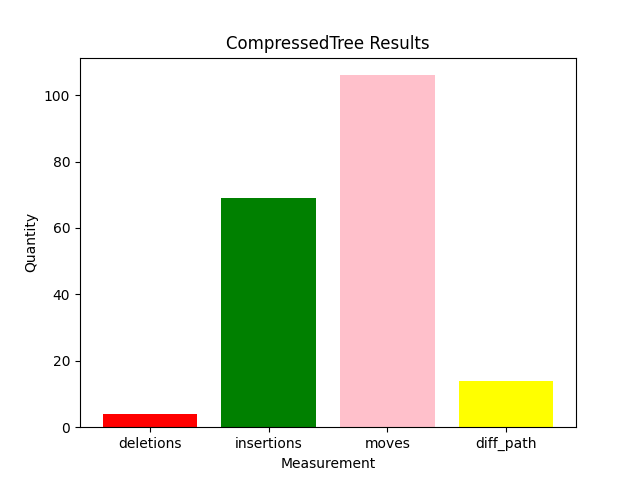
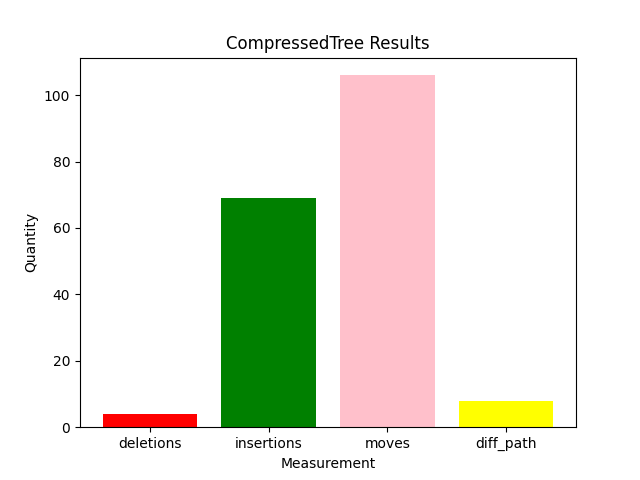
Added Spork and JDime analysis
Script now calculates numerical data for Spork and JDime algorithms.

Changed region(s): [[0.7188, 0.7812, 0.875, 0.8438]]

diff --git a/demos/run_algo.py b/demos/run_algo.py
@@ -21,6 +21,11 @@ def main():
     exec_algo(algo,output_path,lang)
     run_gumtree(output_path,lang,algo)
 
+    if (lang=="java"):
+        run_gumtree_spork(output_path)
+        run_gumtree_jdime(output_path)
+
+
 
 def get_suffix(lang):
     match lang:
@@ -61,6 +66,57 @@ def get_case_study(case_study,output_path):
         print("path not found")
         exit(0)
 
+def search_gumtree(result,new):
+    if (len(result)==1 and result[0]==''):
+        print("Error in gumtree. Two possible reasons:\n 1. PythonParser not configured (see readme) \n 2. Syntax error in desired files preventing gumtree from running (solve errors manually, then try again)")
+        exit(0)
+
+    dict={
+    'deletions':re.compile(r'\ndelete-(tree|node)'),
+    'moves':re.compile(r'\nmove-(tree|node)'),
+    'insertions':re.compile(r'\ninsert-(tree|node)'),
+    'diff_path':re.compile(r'\nupdate-(tree|node)')
+    }
+
+    data={'deletions':0,'insertions':0,'moves':0,'diff_path':0}
+
+
+    for val in result:
+        for key,rx in dict.items():
+            match=rx.search(val)
+            if (match):
+                if (key=='diff_path' and ("Name" or "name" in val)) or ('import' in val) or ("Import" in val) and ("operator: ," not in val):
+                    data[key]+=1
+
+    with open(new,'w') as writer:
+        for key in data.keys():
+            writer.write(key+": "+str(data[key])+"\n")
+
+
+def run_gumtree_spork(output_path):
+    desired=output_path+"/desired.java"
+    result=output_path+"/spork_result.java"
+    new=output_path+"/demo_result/spork_diff.txt"
+    result=subprocess.run(['java','-jar','gumtree.jar','textdiff',desired,result],capture_output=True,text=True).stdout.strip("/n").split("===")
+    
+    if (len(result)==1 and result[0]==''):
+        print("Error in gumtree. Two possible reasons:\n 1. PythonParser not configured (see readme) \n 2. Syntax error in desired files preventing gumtree from running (solve errors manually, then try again)")
+        exit(0)
+
+    search_gumtree(result,new)
+    
+def run_gumtree_jdime(output_path):
+    desired=output_path+"/desired.java"
+    result=output_path+"/jdime.java"
+    new=output_path+"/demo_result/jdime_diff.txt"
+    result=subprocess.run(['java','-jar','gumtree.jar','textdiff',desired,result],capture_output=True,text=True).stdout.strip("/n").split("===")
+    
+    if (len(result)==1 and result[0]==''):
+        print("Error in gumtree. Two possible reasons:\n 1. PythonParser not configured (see readme) \n 2. Syntax error in desired files preventing gumtree from running (solve errors manually, then try again)")
+        exit(0)
+
+    search_gumtree(result,new)
+
 
 def run_gumtree(output_path,lang,algo):
     desired=output_path+"/desired."+lang
@@ -75,32 +131,8 @@ def run_gumtree(output_path,lang,algo):
     # with open(new, 'w') as devnull:
     #     subprocess.run(['java','-jar','gumtree.jar','textdiff',desired,result],stdout=devnull)
 
+    search_gumtree(result,new)
 
-    if (len(result)==1 and result[0]==''):
-        print("PythonParser cannot be detected.")
-        exit(0)
-
-
-    dict={
-    'deletions':re.compile(r'\ndelete-(tree|node)'),
-    'moves':re.compile(r'\nmove-(tree|node)'),
-    'insertions':re.compile(r'\ninsert-(tree|node)'),
-    'diff_path':re.compile(r'\nupdate-(tree|node)\n---\n*(n|N)ame*')
-    }
-
-    data={'deletions':0,'insertions':0,'moves':0,'diff_path':0}
-
-
-    for val in result:
-        for key,rx in dict.items():
-            match=rx.search(val)
-            if (match):
-                if (key=='diff_path' or 'import' in val or "Import" in val) and ("operator: ," not in val):
-                    data[key]+=1
-
-    with open(new,'w') as writer:
-        for key in data.keys():
-            writer.write(key+": "+str(data[key])+"\n")
     
 
 

diff --git a/demos/run_analysis.py b/demos/run_analysis.py
@@ -14,11 +14,18 @@ def parsing():
 def main():
     algo=parsing().algo
     dir=parsing().dir
+
+    run_cs(algo,dir)
+    run_overall(algo)
+
+
+def run_cs(algo,dir):
+
     data={'deletions':0,'insertions':0,'moves':0,'diff_path':0}
 
     for root,dirs,files in os.walk(dir):
         for file in files:
-            if file=="CompressedTree_diff.txt":
+            if file==algo+"_diff.txt":
                 with open(os.path.join(root,file),'r') as reader:
                     lines=reader.readlines()
                     for line in lines:
@@ -39,7 +46,6 @@ def main():
     plt.ylabel('Quantity')
     plt.savefig(dir+'/images/'+algo+'.png')
 
-    run_overall(algo)
 
 def run_overall(algo):
 
@@ -47,7 +53,7 @@ def run_overall(algo):
     total={'deletions':0,'insertions':0,'moves':0,'diff_path':0}
     for root,dirs,files in os.walk('.'):
         for file in files:
-            if file=="CompressedTree_diff.txt":
+            if file==algo+"_diff.txt":
                 with open(os.path.join(root,file),'r') as reader:
                     lines=reader.readlines()
                     for line in lines:

diff --git a/demos/java_case_studies/readme.md b/demos/java_case_studies/readme.md
@@ -4,12 +4,44 @@
 
 ### CompressedTree Algorithm:
 
-* 0 Deletions: Every package in desired version is present in the result.
-* 46 insertions: Extra packages present in the result that are not there in the desired.
-* 8 Moves: Number of import statements in the result that are in a different spot from desired.
-* 5 Different Paths: Number of import statements in result that are from the wrong path.
+* 0 Deletions: 100% fewer than existing algorithms
+    * 100% fewer than JDime and Spork.
+* 46 insertions
+    * 155.56% more than JDime and Spork
+* 8 Moves: 
+    * 33% more than JDime
+    * 74% fewer than Spork
+* 5 Different Paths
+    * 150% more than JDime
+    * 55% fewer than Spork
 
 ![My Image](images/CompressedTree.png)
+
+### JDime Algorithm:
+
+* 5 Deletions
+* 18 insertions
+* 6 Moves
+* 2 Different Paths
+
+![My Image](images/jdime.png)
+
+### Spork Algorithm:
+
+* 3 Deletions
+* 18 insertions
+* 31 Moves
+* 11 Different Paths
+
+![My Image](images/spork.png)
+
+
+## Prerequisites:
+
+* Deletions: Every package in desired version that isn't there in the resulting file.
+* Insertions: Extra packages present in the result that are not there in the desired.
+* Moves: Number of import statements in the result that are in a different spot from desired.
+* Different Paths: Number of import statements in result that are from the wrong path.
 
 
 ## Acknowledgements:
